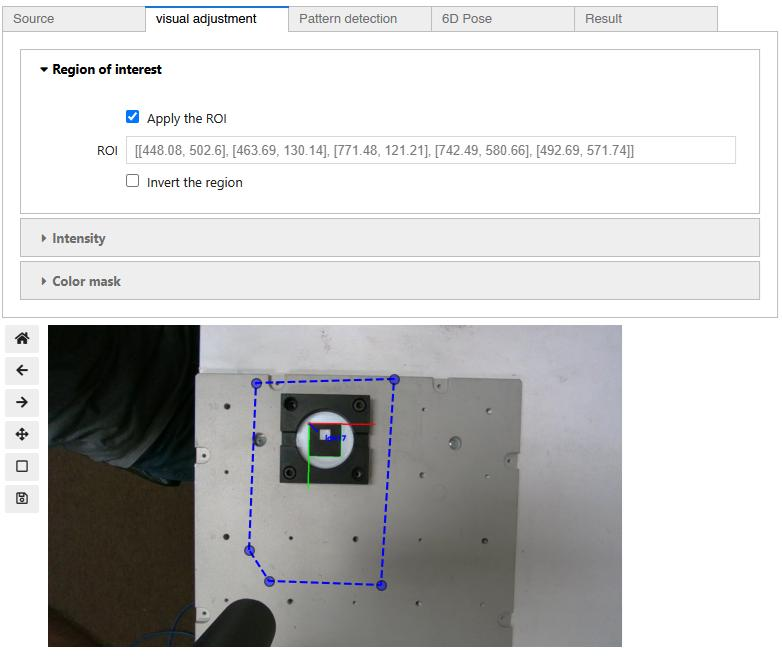
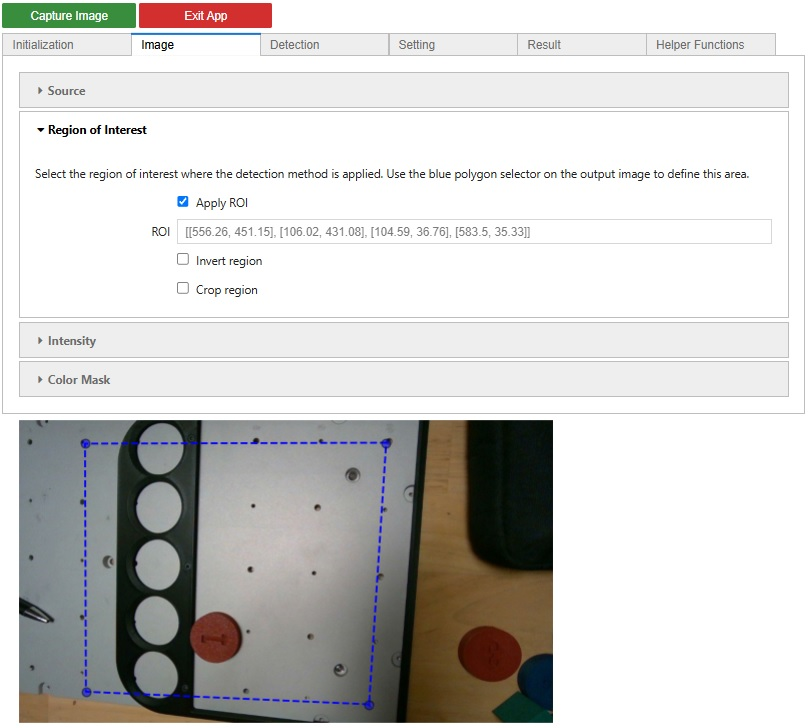
vision update

diff --git a/Chapter 07 - Vision Basics/README.md b/Chapter 07 - Vision Basics/README.md
@@ -1,6 +1,6 @@
 # **7. Vision Basics**
 
-Computer vision is pivotal in programming industrial robotic systems because it provides robots with the "eyes" needed to interpret and interact with their environment. This technology enables robots to perform highly precise and adaptable tasks, such as quality inspection, object sorting, and assembly operations. By leveraging computer vision, robots can identify and locate objects, assess their orientation, and make real-time decisions, which significantly enhances their efficiency and accuracy in manufacturing processes.
+Computer vision is pivotal in programming industrial robotic systems because it provides robots with the "eyes" to interpret and interact with their environment. This technology enables robots to perform highly precise and adaptable tasks like quality inspection, object sorting, and assembly operations. By leveraging computer vision, robots can identify and locate objects, assess their orientation, and make real-time decisions, significantly enhancing their efficiency and accuracy in manufacturing processes.
 
 Traditional robotic systems often rely on pre-defined paths and operations, limiting their adaptability to changes in the production line. In contrast, robots equipped with computer vision can dynamically adjust their actions based on visual feedback, allowing them to handle a variety of tasks and adapt to new or unexpected situations. This capability is crucial for modern manufacturing environments that demand high levels of customization and rapid production changes. By integrating computer vision, industrial robots have become more versatile, capable, and essential for the future of automated manufacturing.
 In this section, we will review the fundamental concepts of computer vision that will help us add basic vision and detection features to our robot programming toolbox. This chapter will benefit from the well-known detection library OpenCV for its goal. The Dorna robotics also features simple tools, that let you use the OpenCV features more easily for your robotic application.
@@ -9,7 +9,7 @@ In this section, we will review the fundamental concepts of computer vision that
 
 ## **Fundamental Concepts of Vision in Robotics**
 
-The ultimate goal of using vision systems in robotics is to convert the information stored in captured images of the robot’s surroundings into three-dimensional data about objects. This transformation enables us to plan the robot's movements and interactions with these objects. In many real-world scenarios, the state of the environment is not entirely deterministic, so we need to continually update our information about the surroundings. Utilizing cameras and vision systems is the most versatile and effective way to achieve this dynamic understanding.
+The ultimate goal of using vision systems in robotics is to convert the information stored in captured images of the robot’s surroundings into three-dimensional data about objects. This transformation enables us to plan the robot's movements and interactions with these objects. In many real-world scenarios, the state of the environment is not entirely deterministic, so we need to update our information about the surroundings continually. Utilizing cameras and vision systems is the most versatile and effective way to achieve this dynamic understanding.
 
 Basic vision methods, such as those implemented in the OpenCV library, rely on detecting patterns in images and subsequently extracting spatial data from these patterns. Various detection techniques hinge on identifying specific patterns within the image. For instance, edge detection, feature matching, and contour finding are fundamental processes that allow a vision system to interpret the spatial configuration and characteristics of objects within its field of view. By recognizing these patterns, the system can infer distances, shapes, and orientations, which are crucial for accurate object manipulation and navigation.
 
@@ -65,11 +65,13 @@ The point in the lower right corner of the image is the point with maximum value
 ---
 ## **Detection GUI**
 
-To find the position of the objects in the environment, the application should first automatically detect the presence, the number, and the position of the desired objects relative to the camera frame, based on the input image. The detection part is done mostly based on the input RGB map, but to extract the 3d position information, we usually have to use the depth map. 
+Now it's time to start learning to build a computer vision program which was our primary goal in this chapter. This application should automatically detect the presence, number, and position of the desired objects based on the input image. The detection part is mostly based on the input RGB map, but to extract the 3D position information, we usually have to use the depth map. 
 
-OpenCV performs object detection through a combination of image processing techniques. The process generally involves several key steps. Here we will not go through a detailed review of how OpenCV works, and how an OpenCV workflow should be created because that would take a complete course for itself. Instead, we will learn how to use OpenCV through a prepared graphical user interface to create simple yet useful programs for a wide range of robotic applications. 
+Algorithms such as OpenCV perform object detection through a combination of image-processing techniques. The process generally involves several key steps. Here we will not go through a detailed review of how OpenCV works, and how an OpenCV workflow should be created because that would take a complete course for itself. Instead, we will learn how to use OpenCV through a prepared graphical user interface to create simple yet useful programs for a wide range of robotic applications. 
 
-Now let’s start working with this GUI by first opening the Jupyter environment using Dorna Lab. Then download and navigate the notebook “detection_gui” from the “example” folder of the [“dorna_vision” repository on GitHub](https://github.com/dorna-robotics/dorna_vision). Run the code cell in that notebook so the GUI starts working.
+<span style="color:red">
+Now let’s start working with this GUI by opening the Jupyter environment using Dorna Lab. Then download and navigate the notebook “detection_gui” from the “example” folder of the [“dorna_vision” repository on GitHub](https://github.com/dorna-robotics/dorna_vision). Run the code cell in that notebook so the GUI starts working.
+</span>
 
 Here is the first look at the GUI you’ll encounter with:
 
@@ -77,44 +79,113 @@ Here is the first look at the GUI you’ll encounter with:
 |:--:| 
 | *Detection GUI* |
 
-### **Input and Adjustments**
-You should first select your input source, in our case, it would be the input from the Intel RealSense camera, but you are also able to use a captured image as your input by choosing the option from the “Source” dropdown list. Click on the “Capture” button, so the captured image (shown below the GUI) gets updated.
+### **Initialization**🛠
+We should start by initializing the GUI system. The parameters here can only be set at the beginning of each session. Here are the different sections of initialization:
+#### **Camera Mounting**
+Here we specify how the camera is mounted, there are two different options:
 
-Note that it’s important to click on the **“Terminate the app”** button when you are finished working with the GUI.
+ |![](./images/fig24.png) | 
+|:--:| 
+| *Eye-to-hand and Eye-in-hand* |
 
-The next step is to perform adjustments on the raw input image before starting to work on detection. These adjustments are going to help the program to perform better detections. So start by clicking on the “Visual adjustment” tab. The options for adjusting the image are as below:
+1. ```Eye-in-hand```: In this case, the camera is mounted on the robot's arm. The position of the detected objects is reported relative to the robot's base, so you have to specify the robot's IP address to be used for calculating the positions.
+   
+2. ```Eye_to_hand```: in this case, the camera is mounted somewhere else, off the robot. The position of the detected objects will be reported with respect to the camera itself, so no information about the robot is needed in this case.
+#### **Frame**
+Here we can specify a frame using the 6 pose numbers: ```xyzabc``` so that the reported position of the detected objects is reported with respect to this frame. The definition of this frame is different in the two cases ```Eye-in-hand``` and ```Eye-to-hand```.
+
+1. ```Eye-in-hand```: In this case, the camera is mounted on the robot and hence has no fixed position in space, so we specify the frame with respect to the robot's base.
+
+For example, take a look at the set-up in the picture below. We have a fixed frame that sits on the corner of a table, and we wish to set up a vision system that reports all the positions with respect to this frame. In this case, we should specify the frame's ```xyzabc``` values with respect to the robot base, and Dorna's detection algorithm will do the rest for us.
+|![](./images/fig23.jpg) | 
+|:--:| 
+| *Camera is in hand, and the frame is on the table's corner* |
+
+2. ```Eye-to-hand```: In this case, since the camera itself is a fixed frame in space, so we should specify the frame's ```xyzabc``` values with respect to the camera itself.
+
+**Note**: It may seem hard for you to find the precise values of the frame's ```xyzabc```  in your robotic setup. But there is an easy way to find them using the vision system itself in both ```Eye-in-hand``` and ```Eye-to-hand``` scenarios. This is how it works: Place an Aruco board on the exact position of your frame, run the vision application with frame ```xyzabc``` value set to zero, and detect the board's pose values. Relaunch the application and this time use the detected board's pose values as the frame's pose values. You'll learn about the Aruco board and how to get its pose values from the detection algorithm in this chapter.  
+
+#### **AI Model**
+The last setting can be used for AI vision models which will be covered in the next chapter.
+
+
+#### **Finishing Up Initialization**
+Click on the ```Initialize Parameters `` button to finish the initialization.
+
+
+### **Image**📷
+The image section of the application gives you options about the input image. You can choose the input source, and you can use some simple image filters to modify the input image, preparing it for the detection algorithm.
+
+#### *Source*
+You can either use your stereo camera as the input image source, or you can use an image file for running tests. Clicking on the "File" option gives you an input field for entering the image file address. For example: ```C:/Users/Dorna/Pictures/image.jpg```. 
+
+Clicking on the <span style="background-color:green; color:white">Capture image</span>  button so the image appears below the GUI. Use this button to always reset the image, either by capturing the real-time camera's input image or by uploading the image file.
 
 #### *Region of Interest*
-Consider this scenario: you are programming a vision system for a conveyor belt in a factory that moves small boxes around. Your goal is to check the boxes passing on the conveyor. However, the camera's field of view includes a lot of unnecessary scenery from the environment. There are parts of the input image that you can confidently delete without causing any errors in the vision process. These are regions where you know the boxes won’t pass.
+Consider this scenario: you are programming a vision system for a conveyor belt that moves small boxes around. Your goal is to check the boxes passing on the conveyor. However, the camera's field of view includes many unnecessary visual details from the environment. There are parts of the input image that you can confidently delete without causing any errors in the vision process. These are regions where you know the boxes won’t ever pass.
 
-In this scenario, masking out these regions is beneficial. First, you reduce the number of pixels your processing unit has to handle for detection. Secondly, by specifying a valid region, you lower the possible risks of erroneous detections from invalid regions.
+In this scenario, masking out the unnecessary regions is beneficial for two reasons: first, it reduces the number of pixels the processing unit has to handle for detection, and second, by specifying a valid region, it decreases the possible risk of erroneous detection from invalid regions.
 
-To specify the region of interest for your application, head to the “Region of Interest” sub-panel, and start drawing the desired polygon on the image below by clicking on it. 
+To specify the region of interest for your application, head to the “Region of Interest” sub-panel, and start drawing the desired polygon on the image below by clicking on it and setting the corners of the region of interest polygon. To reset the polygon use the Esc keyboard button.
 
 |![](./images/fig6.jpg) | 
 |:--:| 
 | *Region of  interest specified using the blue polygon, notice that hovering the mouse on the input image will show you options for interacting with it. The most important ones let you zoom and move the picture around* |
 
-Check the “Apply the ROI” checkbox to make the region of interest active (this option is also present in the other adjustment sub-panel sections and should be checked if we want to use that adjustment feature). You can also invert this region (the region of interest would then be outside the polygon instead of inside it) by checking the “Inver the region” checkbox.
+Check the “Apply ROI” checkbox to make the region of interest option active (this option is also present in the other adjustment sub-panel sections and should be checked if we want to use that adjustment feature). You can also invert this region (the region of interest would be outside the polygon instead of inside it) by activating the “Invert the region” checkbox.
 
 #### **Intensity**
-The options in this section help you change the brightness and contrast of your input image, this may be helpful to enhance the quality of the image, when the light condition is bad, or colors used in the scene are indistinguishable. Play with these options until you achieve a clear and readable image, do not overuse these options on the image, because it will cause artifacts and erroneous detections.
-|![](./images/fig7.jpg) | 
+The options in this section help you change the brightness and contrast of your input image, this may be helpful to enhance the quality of the details in the image, when the light condition is bad, or colors used in the scene are indistinguishable. Play with these options until you achieve a clear and readable image, do not overuse these options on the image, because it will cause a noisy image and erroneous detections. Check the "Apply the intensity" checkbox if you want to use these options.
+|![](./images/fig7.png) | 
 |:--:| 
 | *Setting Contrast and Brightness of the input image, to make the features more visible* |
 
 #### **Color Mask**
-Color masking is a feature similar to the “Region of interest”, in that instead of specifying a region on the image to be masked for the process, you specify a region in the color space for being processed. For example, if the boxes on the conveyor belt are only in blue colors, so there won’t be any reason to process pixels that are any color but blue. So you should mask out any other color. 
-|![](./images/fig8.jpg) | 
+Color masking is a feature similar to the “Region of interest”. Both these features exclude a group of pixels from the image, so the detection algorithm only runs on a specific part of the image. Using the color mask, we include/exclude pixels judging by their “HSV” values, which stand for "Hue”, "Saturation”, and "Vue”.
+
+For example; if there are blue and red boxes on a conveyor and we only want to detect the red boxes, we can exclude the hue value corresponding to the bluish colors so that all the blue pixels are thrown away and blue boxes would never get detected. 
+|![](./images/fig8.png) | 
 |:--:| 
-| *Color masking tool* |
+| *Masking out the green background, using an inverted mask on the green hue region. The black pixels have been excluded.* |
 
-Use the color picker option to first select the main color you want to mask, use the obtained HSV (Hue, Saturation, Vue) values as the center of the HSV mask regions, and expand the lower/upper bound sliders for each value around these center values to obtain your desired masking region in the color space.
+Use the color picker option first to select the main color you want to mask, use the obtained HSV (Hue, Saturation, Vue) values as the center of the HSV mask regions, and expand the lower/upper bound sliders for each value around these center values to obtain your desired masking region in the color space.
 
-The “Invert the mask” button also comes in handy if you want to delete a specific color region from your image.
+The “Invert the mask” button is also useful if you want to delete a specific color region from your image.
 
 ### **Pattern Detection**
 The next panel in the GUI is where we plan for pattern detection. First, we should select the kind of “Pattern” we want to detect in the image that suits our application, and then we need to tune the detection algorithm parameters to make it detect properly. Here we will introduce the pattern categories that this GUI supports, which usually suffice many real-world applications.
+
+#### **Ellipse**
+Ellipse is a commonly used pattern in detection applications. It can help us solve many real-life problems easily. It has a simplistic geometrical structure with only 2 parameters describing its shape (major and minor axis sizes), but at the same time, it can be mapped to a wide range of complex shapes.
+
+This algorithm can be used to find the center position and orientation of a wide class of objects and not necessarily ellipsoidal shapes. 
+
+|![](./images/fig12.jpg) | 
+|:--:| 
+| *Ellipse pattern detection in GUI. The GUI uses the green rectangles to represent the oriented bounding box (OBB) for the detected pattern instances* |
+
+The parameters you can set for this algorithm (```min_path_length```, ```min_line_length```,...), change some of the inner parameters for the OpenCVs ellipse detection algorithm (for example the ```smooth blur``` parameter smooths out the rough edges so shapes with sharp edges will get more chance to be detected as an ellipse). It would be outside of the scope of this course to get into the details of these parameters. The best practice would be to play around with them until you reach the best quality of detection.
+
+
+#### **Polygon**
+
+Polygon detection brings us one step further for detecting more complex patterns.  
+We expect the polygon pattern to have pointy edges and flat sides. Here you can specify the number of sides, and your expected range for the “Area” (in pixel2) and “Perimeter”(in pixels).  Both these values kinda represent the size of the polygon, and the ranges should be tuned carefully so the algorithm does not detect unwanted patterns.
+
+In this section, you have also given options to control one step of the detection workflow right before the actual detection. The actual version of the input image that is being fed to the polygon detection algorithm can be seen on the right-hand side of the panel. As you can see it can be a binary image (each pixel can only take “white” or “black” values), and you have control over the parameters that control how these black/white values are assigned to the pixels. Play around with these options (if needed) to achieve a clear image where the pattern you wish the algorithm to detect is visible and bold. 
+
+|![](./images/fig13.jpg) | 
+|:--:| 
+| *Polygon detection in GUI. The region of interest has also been activated for this example* |
+
+#### **Contour**
+Contour is the most complex achievable pattern in this application, which can cover all possible connected patterns and shapes for us. The contours generality has its pros and cons. The good news is that we can use contour to detect complex structures that could not be modeled properly using polygons or ellipses, but the bad news is that since the contour shape is unlimited it may wrongfully detect patterns we didn’t wish for.
+
+The options in this case are similar to the “Polygon” detection section. You have the “Area” and “Perimeter” options to specify the size range of the contour. 
+
+|![](./images/fig14.jpg) | 
+|:--:| 
+| *Contour detection in GUI used to detect a rather complex object* |
 
 #### **Aruco**
 
@@ -152,41 +223,6 @@ Draw or print the pattern below on a cardboard with each square being the same s
 You have created an Aruco dice! Use the GUI to detect the top side’s value of the dice. Roll around your dice and read the obtained values using the GUI.
 
 </div>
-
-#### **Ellipse**
-Ellipse is a commonly used pattern in detection applications. It can help us solve many real-life problems easily. It has a simplistic geometrical structure with only 2 parameters describing it (major and minor axis sizes), but at the same time, it can be mapped to a wide range of complex shapes. Unlike the Aruco pattern detection, the algorithm is not capable of finding the 3D pose of this pattern, because the apparent elliptic shape may be mapped to a wide range of possible shapes in the 3D world. To find the pose for this pattern (and the patterns afterward), we have to use depth information from our stereo camera.
-
-|![](./images/fig12.jpg) | 
-|:--:| 
-| *Ellipse pattern detection in GUI. The GUI uses the magenta rectangle as the rotated bounding box for the detected shapes and the shape itself is shown using the light green color* |
-
-The two most important parameters controlling the ellipse detection are “Axes range" and "Ratio”:
-
-- **Axes Range**: Determines the range of the values the axes size should be (measured in pixels). For example in the picture above there are many smaller circles or some very large circular patterns that we do not want the algorithm to detect, so we limit the axes range in a way that only the ellipses (or circles) with our desired size are detected.
-
-- **Axes Ratio**: Axes ratio value is defined as the ratio between the ellipses’s smaller axis size to its larger axis size. Hence the axes ratio value must be in the range (0,1). An ellipse with an axes ratio near 1 looks like a perfect circle, and an ellipse with an axes ratio near 0 looks very stretched and thin. You have to also select a proper axes ratio range with which you can limit the algorithm to only detect your desired shapes.
-
-Use other options available for this method only if configuring these two values is not enough for you to perform the detection task properly. We will not go into details of their specific effect on the detection algorithm, you may find out this just by playing around with them.
-
-#### **Polygon**
-
-Polygon detection brings us one step further for detecting more complex patterns.  
-We expect the polygon pattern to have pointy edges and flat sides. Here you can specify the number of sides, and your expected range for the “Area” (in pixel2) and “Perimeter”(in pixels).  Both these values kinda represent the size of the polygon, and the ranges should be tuned carefully so the algorithm does not detect unwanted patterns.
-
-In this section, you have also given options to control one step of the detection workflow right before the actual detection. The actual version of the input image that is being fed to the polygon detection algorithm can be seen on the right-hand side of the panel. As you can see it can be a binary image (each pixel can only take “white” or “black” values), and you have control over the parameters that control how these black/white values are assigned to the pixels. Play around with these options (if needed) to achieve a clear image where the pattern you wish the algorithm to detect is visible and bold. 
-
-|![](./images/fig13.jpg) | 
-|:--:| 
-| *Polygon detection in GUI. The region of interest has also been activated for this example* |
-
-#### **Contour**
-Contour is the most complex achievable pattern in this application, which can cover all possible connected patterns and shapes for us. The contours generality has its pros and cons. The good news is that we can use contour to detect complex structures that could not be modeled properly using polygons or ellipses, but the bad news is that since the contour shape is unlimited it may wrongfully detect patterns we didn’t wish for.
-
-The options in this case are similar to the “Polygon” detection section. You have the “Area” and “Perimeter” options to specify the size range of the contour. 
-
-|![](./images/fig14.jpg) | 
-|:--:| 
-| *Contour detection in GUI used to detect a rather complex object* |
 
 
 ### **6D Pose**

diff --git a/Chapter 10 - Multi Robot Control/README.md b/Chapter 10 - Multi Robot Control/README.md
@@ -1,4 +1,4 @@
-# **Tic-Tac-Toe Automation**
+# **Project: Tic-Tac-Toe Automation**
 
 ## **Overview**
 This project involves using two Dorna TA robots that communicate with each other to play a game of Tic-Tac-Toe. This introduces students to the exciting world of multi-robot automating by creating a game of Tic-Tac-Toe using two Dorna TA robotic arms. Participants will learn how to assemble the robots, configure their communication through I/O pins, and program their movements to autonomously play the game. By integrating robotics, programming, and real-time communication, students will understand how machines can work collaboratively to complete tasks in a structured environment.
